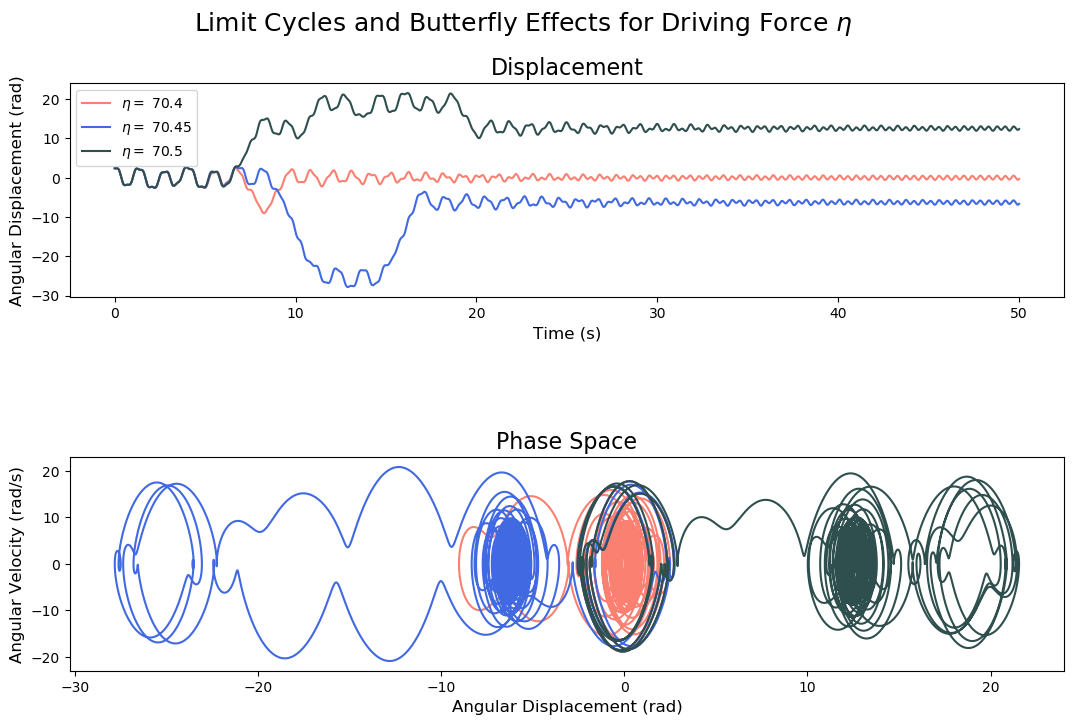
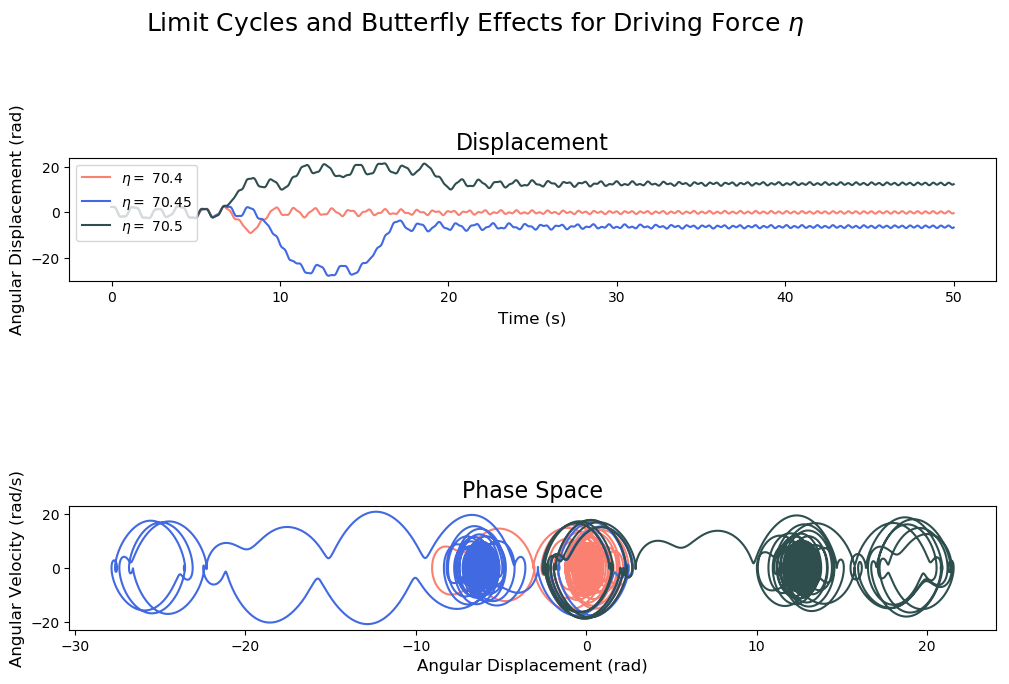
commented code

diff --git a/Pendulum Code/Code that generated plots on poster/Section3-2.py b/Pendulum Code/Code that generated plots on poster/Section3-2.py
@@ -13,6 +13,15 @@ from rungekutta4 import RK4
 
 import pendulumplot as pp
 
+'''
+The point of this code is to illustrate butterfly effects and convergent limit cycles 
+in the dynamics of the pendulum. 
+'''
+
+
+
+
+
 parameters = Parameters
 
 g = 9.8
@@ -65,23 +74,31 @@ plotargs['title'] = ''
 plotargs['titlesize'] = 18
 plotargs['labelsize'] = 12
 
+### We vary the driving force by 0.05 to illustrate the butterfly effect. Using too small variations
+### will make it hard to distinguish between butterfly effects due to our manipulation of the 
+### parameter and those that may arise from the accumulation of errors. If you want to 
+### test for such effects with smaller differences in driving force, you should decrease 
+### the step size accordingly. However, there is in effect a fundamental limit 
+### to how small the error can be made due to the computer's machine error.
+
+
 fig1, axs1 = plt.subplots(2,1)
 
 
 parameters['kappa'] = 2*parameters['omega_0']*0.013
 print(parameters['kappa'])
-parameters['omega_d'] = parameters['omega_0']*2#0.56
-parameters['eta'] = 70.4#71.17
+parameters['omega_d'] = parameters['omega_0']*2
+parameters['eta'] = 70.4
 y1 = RK4(pendulum, y_0, times, parameters)
 
 parameters['kappa'] = 2*parameters['omega_0']*0.013
-parameters['omega_d'] = parameters['omega_0']*2#0.56
-parameters['eta'] = 70.45#71.18
+parameters['omega_d'] = parameters['omega_0']*2#
+parameters['eta'] = 70.45
 y2 = RK4(pendulum, y_0, times, parameters)
 
 parameters['kappa'] = 2*parameters['omega_0']*0.013
-parameters['omega_d'] = parameters['omega_0']*2#0.56
-parameters['eta'] = 70.5#71.19
+parameters['omega_d'] = parameters['omega_0']*2#
+parameters['eta'] = 70.5#
 y3 = RK4(pendulum, y_0, times, parameters)
 
 etas = [70.40, 70.45, 70.50]
@@ -92,31 +109,20 @@ axs1[0].plot(times, y3[:,0], '-', color='darkslategrey', label=r'$\eta = $ {}'.f
 
 axs1[0].set_xlabel('Time (s)', fontsize=12)
 axs1[0].set_ylabel('Angular Displacement (rad)', fontsize=12)
-fig1.suptitle(r'Limit Cycles and Butterfly Effects for Driving Force $\eta$', fontsize=18)
 axs1[0].legend(loc=2)
-#fig1.set_size_inches(12, 8)
-#fig1.savefig('butterflyeffect.png', dpi=100)
-#plt.show()
 
-
-
-#fig2, axs2 = plt.subplots()#1,3, sharey=True)
 
 axs1[1].plot(y1[:,0], y1[:,1], '-', color='salmon', label=r'$\eta = $ {}'.format(etas[0]))
 axs1[1].plot(y2[:,0], y2[:,1], '-', color='royalblue', label=r'$\eta = $ {}'.format(etas[1]))
 axs1[1].plot(y3[:,0], y3[:,1], '-', color='darkslategrey', label=r'$\eta = $ {}'.format(etas[2]))
 
-#axs2[0].set_xlabel('Angular Displacement (rad)')
 axs1[1].set_xlabel('Angular Displacement (rad)', fontsize=12)
-#axs2[2].set_xlabel('Angular Displacement (rad)')
-
 axs1[1].set_ylabel('Angular Velocity (rad/s)',fontsize=12)
-#axs1[1].set_title(r'Butterfly Effects for Driving Force $\eta$')
 axs1[0].set_title('Displacement', fontsize=16)
 axs1[1].set_title('Phase Space', fontsize=16)
-#fig1.tight_layout(pad=2.2)
-fig1.tight_layout(pad=2.5)
 
+fig1.suptitle(r'Limit Cycles and Butterfly Effects for Driving Force $\eta$', fontsize=18)
+fig1.tight_layout(pad=2.5)
 fig1.set_size_inches(12, 8)
 fig1.savefig('butterflyeffects.png', bbox_inches='tight',dpi=100)
 plt.show()

diff --git a/Pendulum Code/Code that generated plots on poster/section1.py b/Pendulum Code/Code that generated plots on poster/section1.py
@@ -91,17 +91,8 @@ colors = ['royalblue', 'crimson', 'maroon', 'coral', 'crimson', 'blueviolet', 'd
 
 
 
-pp.displacementplot(times, yvals, plotargs)
-plt.plot(times, smol, '--', c='k', label=r'$\phi(t) = $ cos$(\omega_0 t)$')
-plt.legend(loc=1)
-
-plt.rcParams["figure.figsize"] = (8,5.33)
-
-plt.savefig('numerical_vs_analytical_soln.png', dpi=100)
-plt.show()
-
 ### ======================================================================
-### Now we will plot the numerical solution for a damped pendulum, 
+### Now I will plot the numerical solution for a damped pendulum, 
 ### using different damping coefficients. Due to the way I've defined 
 ### the equation in the pendulumeqs.py file, I will use the variable 
 ### alpha as chi, but will label that parameter as chi in the real plot.
@@ -109,12 +100,6 @@ plt.show()
 
 
 alphavals = [0.15, 1.00, 1.85]
-
-plotargs['title'] = r'Displacement for Different Damping Coefficients $\chi$'
-plotargs['xlabel'] = 'Time (s)'
-plotargs['ylabel'] = 'Angular Displacement (rad)'
-plotargs['lineshape'] = '-'
-plotargs['loc'] = 1
 
 fig, axs = plt.subplots(1,3)
 
@@ -126,7 +111,14 @@ axs[0].set_title(r'Displacement for Small Initial Angle $\phi_0 = \pi/20$', font
 axs[0].set_xlabel('Time (s)', fontsize=12)
 axs[0].set_ylabel('Angular Displacement (rad)', fontsize=12)
 
+### The next line of code plots the phase space on a different plot
 axs[2].plot(yvals[:,0], yvals[:,1], '-', color='salmon', label=r'$\chi=0$')
+
+
+
+### Below, I plot the displacement for an underdamped, critically damped and 
+### overdamped oscillator and their corresponding phase spaces, which includes 
+### that for the undamped oscillator.
 
 for i in range(len(alphavals)):
     parameters['alpha'] = alphavals[i]
@@ -150,43 +142,4 @@ axs[2].set_ylabel('Angular Velocity (rad/s)', fontsize=12)
 fig.set_size_inches(25, 6)
 fig.savefig('section1.png', bbox_inches='tight', dpi=100)
 plt.show()
-
-
-
-
-'''
-plt.rcParams["figure.figsize"] = (8,5.33)
-plt.savefig('damped_oscillator.png', dpi=100)
-plt.show() 
-
-### ========================================================================
-### I will now plot the phase space both for the damped and undamped pendula. 
-### As such, I need to change the alphavals to include chi = 0.
-### ========================================================================
-
-
-alphavals = [0, 0.15, 1., 1.85]
-
-plotargs['title'] = r'Phase Space for Different Damping Coefficients $\chi$'
-plotargs['xlabel'] = 'Angular Displacement (rad)'
-plotargs['ylabel'] = 'Angular Velocity (rad/s)'
-
-for i in range(len(alphavals)):
-    parameters['alpha'] = alphavals[i]
-    parameters['kappa'] = parameters['alpha']*(2*parameters['omega_0'])
-    chi = str(round(parameters['alpha'], 2))
-    plotargs['color'] = colors[i]
-    plotargs['graph label'] = r'$\chi =$ '+ chi 
-    yvals = RK4(pendulum, y_0, times, parameters)
-    
-    pp.phasespace(times, yvals, plotargs)
-
-
-plt.savefig('sect1_phasespace.png', dpi=100)
-plt.show()
-'''
-
-
-
-
 

diff --git a/Pendulum Code/Code that generated plots on poster/pendulumeqs.py b/Pendulum Code/Code that generated plots on poster/pendulumeqs.py
@@ -16,24 +16,27 @@ included three different functions for the pendulum, whereby each is written
 in terms of particular parameters, so that it becomes easier to manipulate 
 different parameters and to see what effect such manipulation has in the overall
 motion of the pendulum. As such, I have written an equation for the pendulum in the 
-two important ways: in terms of the acting torques on the system divided by the 
-moment of inertia of the pendulum; and in a way that includes explicitly the damping 
-coefficient, which I have decided to call chi. 
+two important ways: in terms of a constant torque whose amplitude only depends on the 
+driving frequency and time, and in terms of a torque that also depends on the displacement 
+of the pendulum from equilibrium, which is what we expect to happen for gravity acting 
+on the pendulum or using a metal pendulum and putting a magnetic field below it.
 
-
-The damping coefficient is directly proportional to the frictional force acting on 
-the system (e.g. air friction, fluid viscosity, etc), so it enables us to directly 
-measure how increasing or decreasing the viscosity of the system affects it.
 
 I have also added a dictionary of the parameters, so that I can just call and rename
 its values in future files. 
+
+
+While I include in the parameters dictionary options for manipulating the mass
+and thus the moment of inertia and other such parameters, the code can work with only the 
+variables provided. We can of course define these variables in terms of a real measurements 
+in the case that we want to simulate a real life pendulum of interest.
 
 """
 
 
 
 Parameters = {'omega_0': 0., 'kappa': 0., 'chi': 0., 'eta': 0., 'omega_d': 0., 'M': 0., 
-              'alpha': 0., 'delta': 0., 'inertia': 0., 'torque':0.}
+              'alpha': 0., 'delta': 0.}
 
 def pendulum(t, y, args):
     
@@ -46,16 +49,6 @@ def pendulum(t, y, args):
     
     return dydt
 
-def pendulumChi(t, y, args):
-    
-    dydt = np.zeros(2)
-    
-    dydt[0] = y[1]
-    dydt[1] = -(args['omega_0']**2)*np.sin(y[0]) - 2*(args['omega_0'])*(args['M'])*(args['chi'])
-    + args['eta']*np.cos(args['omega_d']*t)
-    
-    
-    return dydt
     
 def pendulumTorque(t, y, args):
     

diff --git a/Pendulum Code/Code that generated plots on poster/Section2disp.py b/Pendulum Code/Code that generated plots on poster/Section2disp.py
@@ -118,7 +118,8 @@ axs[1].set_ylabel('Angular Velocity (rad/s)', fontsize=12)
 axs[1].set_title('Phase Space', fontsize=16)
 
 
-
+### Here I calculate the period of oscillations of 150 different initial conditions
+### in order to 
 
 comparisons = 150
 initials = np.linspace(np.pi/150, np.pi-0.01, comparisons)
@@ -160,25 +161,3 @@ fig.savefig('section2.png', bbox_inches='tight', dpi=100)
 
 
 plt.show()
-
-
-
-#plt.rcParams["figure.figsize"] = (8, 5.33)
-
-#plt.savefig('displacement_for_diff_phi_in.png', dpi=100)
-
-#plt.show()
-
-### ===========================================================================
-### I will now do the same for the initial velocity, setting the initial 
-### position to zero. The maximum value for the initial velocity was chosen 
-### on purpose to be the maximum velocity at zero displacement so that 
-### the pendulum does not make a full revolution, but goes back down. Slightly 
-### increasing the initial velocity by less than a hundredth is enough to be
-### make over-the-top oscillations. 
-### ===========================================================================
-### ===========================================================================
-### Below I plot the phase space for the above displacements.
-### ===========================================================================
-
-

diff --git a/Pendulum Code/Code that generated plots on poster/rungekutta4.py b/Pendulum Code/Code that generated plots on poster/rungekutta4.py
@@ -14,7 +14,9 @@ import matplotlib.pyplot as plt
 
 """
 
-I will define the Runge-Kutta 4 algorithm in this file. I will later use this 
+I will define the Runge-Kutta 4 algorithm in this file. Note: it is 
+based on the code provided to us in the PHYS 250 github repository. 
+I will later use this 
 for solving the differential equation for the pendulum. I'm creating a separate 
 file so that I may use it in future projects, should I need it.
 
@@ -71,8 +73,7 @@ def RK4(function, y_0, xvals, args={}):
     
     return y
 
-### I will test the algorithm with the differential equation dydx = ay(x), ie, the exponential function
-   
+### it is easy to test the algorithm with the following function   
 
 '''
 def expo(x, y, args):
@@ -80,30 +81,6 @@ def expo(x, y, args):
     dydx = args['a']*y
     
     return dydx
-
-
-expoargs = {'a': 1}
-
-y_0 = np.array([1.])
-
-N =  100
-
-xmax = 5
-
-x = np.linspace(0., xmax, N+1)
-
-yapprox = RK4(expo, y_0, x, expoargs)
-
-plt.plot(x, yapprox, '-', c='r', label = 'RK4 approximation of Exponential')
-plt.plot(x, np.exp(expoargs['a']*x), '--', c = 'k', label = 'Exponential')
-plt.xlabel(r'$x$')
-plt.ylabel(r'$f(x)$')
-
-plt.legend(loc=2)
-
-plt.show()
-
-
 
 '''
     

diff --git a/Pendulum Code/Code that generated plots on poster/section3-1.py b/Pendulum Code/Code that generated plots on poster/section3-1.py
@@ -80,19 +80,13 @@ y2 = RK4(pendulumTorque, y_2, times, parameters)
 
 fig, axes = plt.subplots(2, 1)
 
-#omega_d = 1.3*omega_0 
-#chi = 0.1
-#eta=16
-#delta=0
 
 axes[0].plot(times, y1[:,0], '-', color='salmon', label=r'$\eta = ${}')
-#axes[0].plot(times, y2[:,0], '-', color='salmon', label=r'$\phi_0 = $ {} rad'.format(str(y_2[0])))
 axes[0].set_ylabel('Angular Displacement (rad)', fontsize=12)
 axes[0].set_xlabel('Time (s)', fontsize=12)
 axes[0].set_title('Displacement', fontsize=16)
 
 axes[1].plot(y1[:,0], y1[:,1], '-', color='salmon')
-#axes[1].plot(y2[:,0], y2[:,1], '-', color='salmon', label=r'$\phi_0 = $ {} rad'.format(str(y_2[0])))
 axes[1].set_ylabel('Angular Velocity (rad/s)',fontsize=12)
 axes[1].set_xlabel('Angular Displacement (rad)',fontsize=12)
 axes[1].set_title('Phase Space', fontsize=16)

diff --git a/Pendulum Code/Code that generated plots on poster/pendulumplot.py b/Pendulum Code/Code that generated plots on poster/pendulumplot.py
@@ -6,6 +6,13 @@ Created on Sat Nov 16 21:25:13 2019
 @author: lucasbaralt
 """
 
+'''
+This code offers a neat way of making individual plots of the main quantities 
+one would want to measure, such as the time evolution of displacement, 
+the phase space, and the Fourier transform.
+'''
+
+
 
 import matplotlib.pyplot as plt
 import numpy as np

diff --git a/README.md b/README.md
@@ -13,6 +13,18 @@ in which the fourth order Runge-Kutta algorithm was defined; and one in which th
 to be used most frequently were defined.
 
 The rest of the files are labeled by the section to which they correspond in the poster: section one corresponds to 
-the simple harmonic oscillator and the damped oscillator; section two correspods to the anharmonic oscillator; section three
+the simple harmonic oscillator and the damped oscillator; section two corresponds to the anharmonic oscillator; section three
 was divided into two subsections: the convergence of limit cycles appears in section 3.1 while the butterfly effect appears 
 in section 3.2; the last section corresponds to the bifurcation diagram.
+
+## Code Generation
+
+The Runge-Kutta algorithm implemented in this project was based mostly on the code for solving differential 
+equations made available to us through a jupyter notebook for the PHYS 250 course. The Computational 
+Physics textbook by Landau, Páez and Bordeianu was of great use for understanding this method and 
+approaching the computational aspects of pendulum dynamics.
+
+Note that, while all of the code presented for the plots generated for the poster, some of the code may take a 
+long time to run. In particular, the bifurcation diagram presented in the plot may take from 5 to 6 hours. Of 
+course, this depends on the number of iterations one decides to calculate and the period of time of the 
+evolution of the pendulum one wants to consider.
